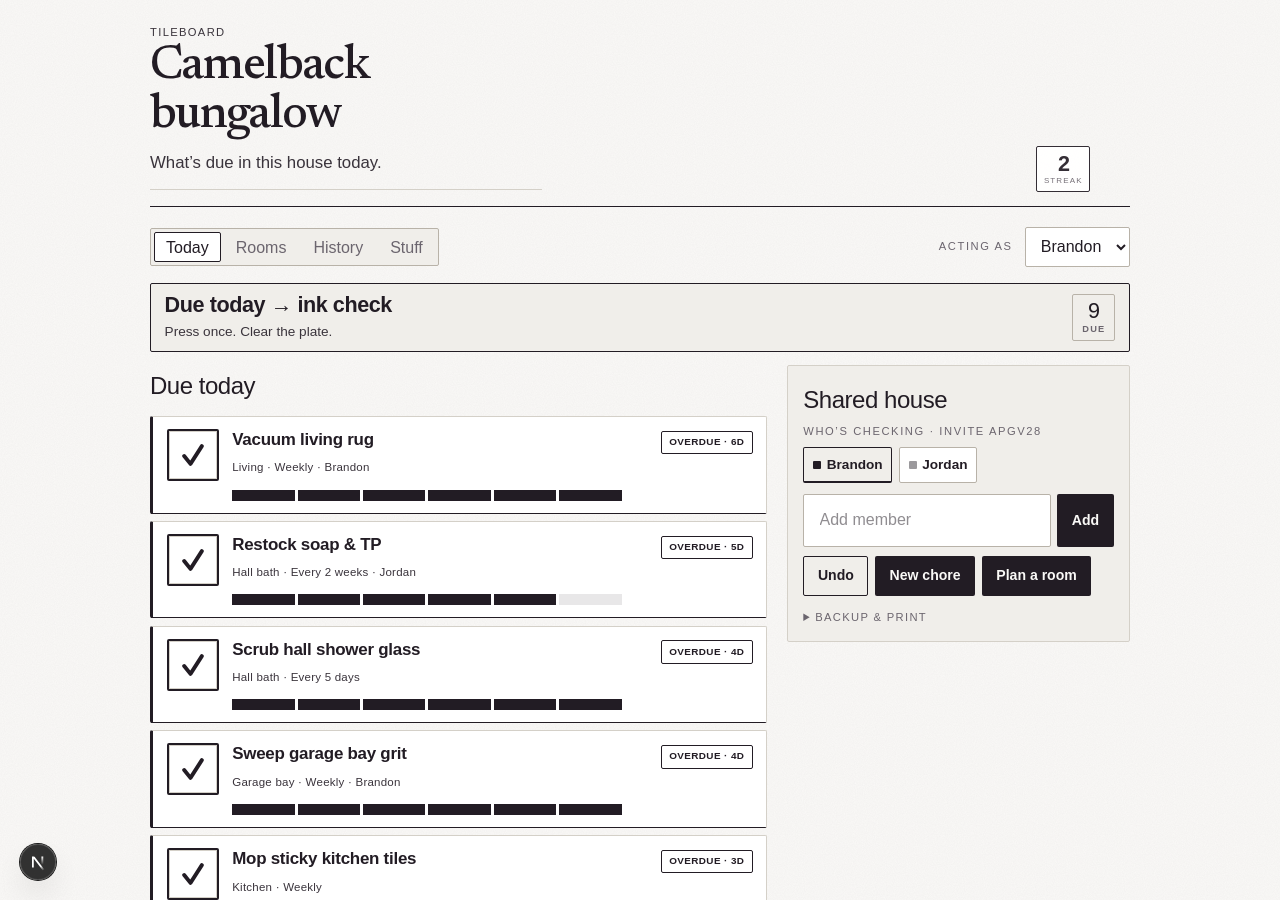
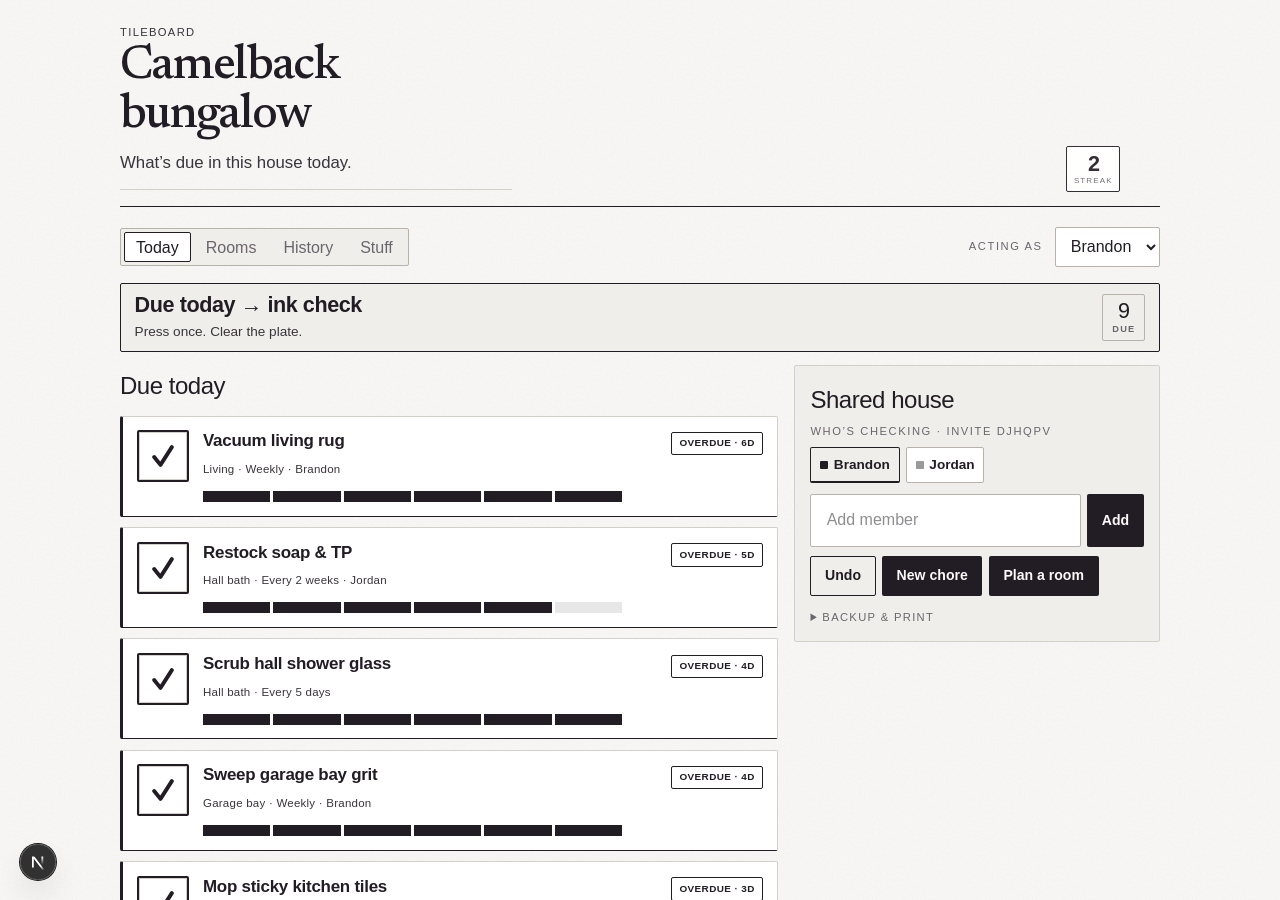
elevate7: make-it-alive — ink spine plates + room press

diff --git a/src/app/globals.css b/src/app/globals.css
@@ -1273,3 +1273,27 @@ body {
 .chore-tile { padding: var(--tb-pad) 0.9rem !important; }
 .shell { width: min(1040px, calc(100% - 1.5rem)) !important; }
 .today-grid { gap: var(--tb-gap-lg) !important; }
+
+/* elevate9: cut — quieter later cards */
+.later-card {
+  padding: 0.55rem 0.75rem !important;
+  border: 1px solid var(--rule) !important;
+  background: transparent !important;
+  box-shadow: none !important;
+}
+
+/* elevate7: make-it-alive — room plate press + ink spine on overdue chores */
+.room-tile:active {
+  transform: translateY(1px) scale(0.985);
+  background: var(--chalk);
+}
+.chore-tile[data-status="overdue"] {
+  border-left: 3px solid var(--ink) !important;
+}
+.chore-tile[data-status="due"] {
+  border-left: 3px solid var(--slate) !important;
+}
+.chore-tile[data-status="ok"],
+.chore-tile[data-status="fresh"] {
+  border-left: 3px solid var(--rule) !important;
+}

diff --git a/gauntlet/shots-elevate/LEDGER.md b/gauntlet/shots-elevate/LEDGER.md
@@ -13,3 +13,4 @@ Identity LOCKED: Cool Letterpress Checklist. Flat materials. No tomato scream / 
 | 6 | hand-rewrite job strip / rooms voice | hand-rewrite-copy | elevate6-hand-copy.png | Due today → ink check |
 | 7 | ink spine on due/overdue tiles + room press | make-it-alive | elevate7-ink-spine.png | left ink plate mark |
 | 8 | space tokens + wider shell rhythm | design-system-from-assets | elevate8-design-system.png | --tb-gap rhythm |
+| 7 | ink spine on due/overdue tiles + room press | make-it-alive | elevate7-ink-spine.png | left ink plate mark |
